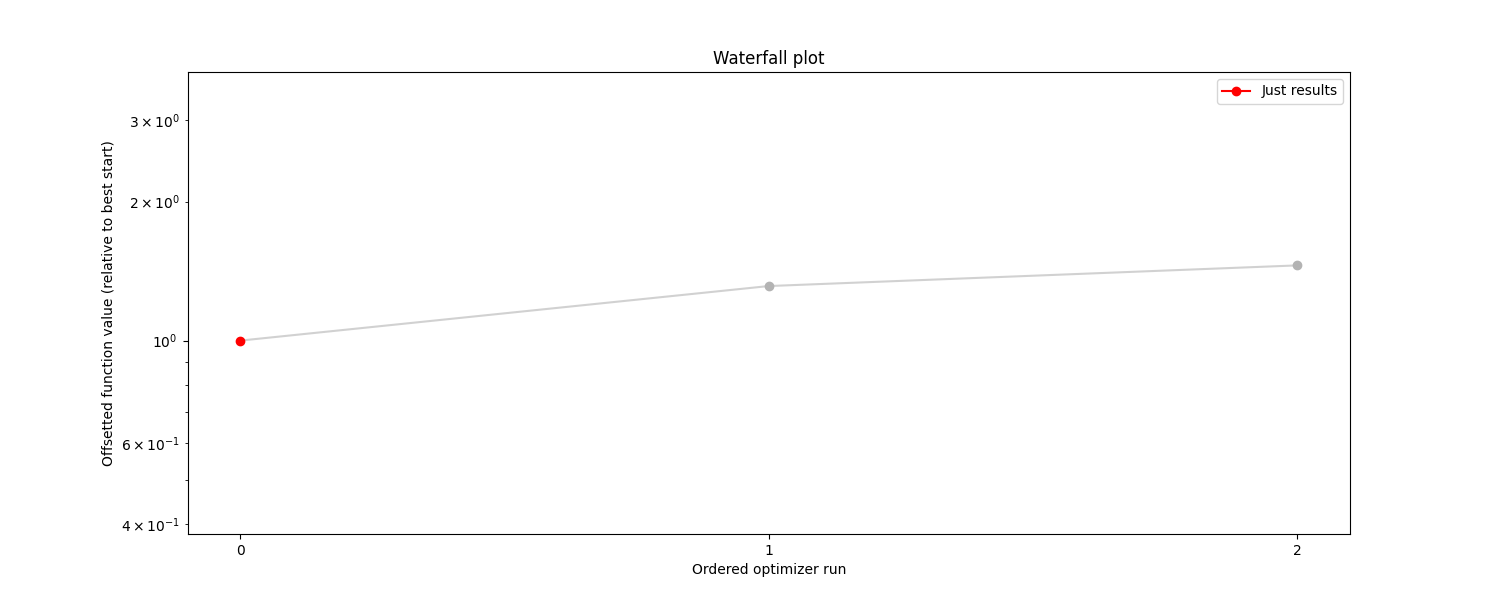
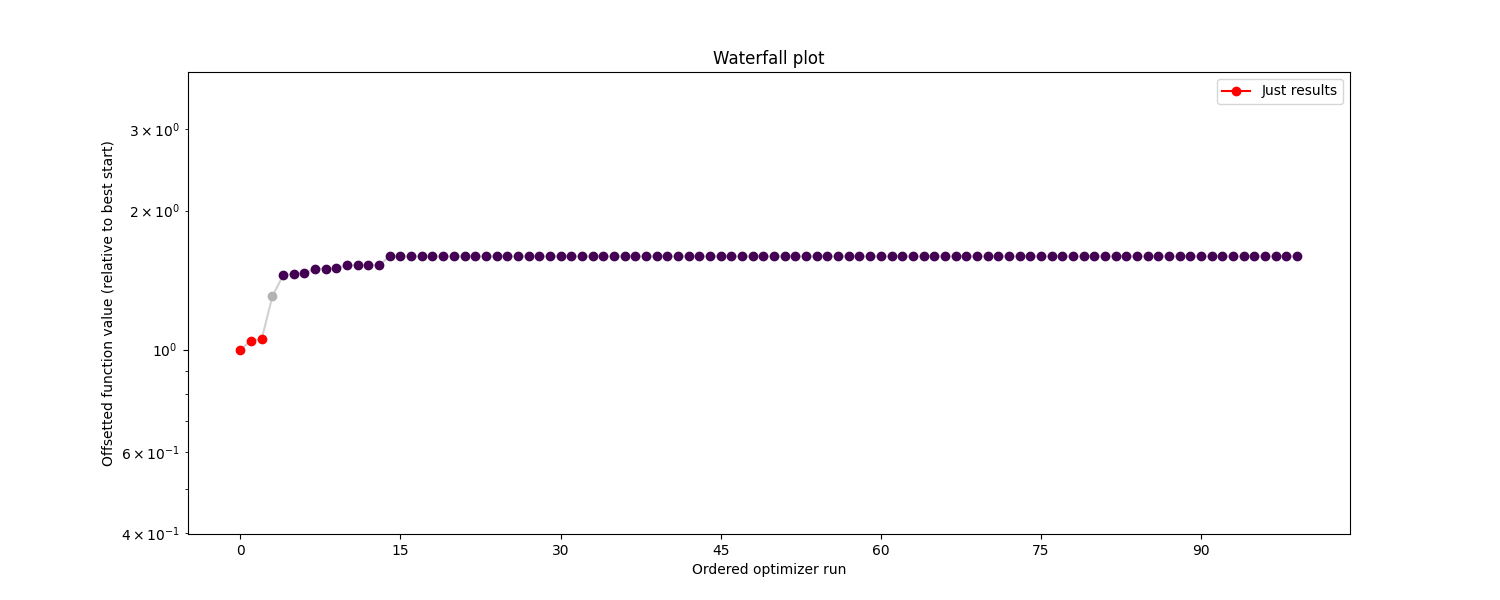
Small changes, Rahman

diff --git a/test/test_hard_constraints.py b/test/test_hard_constraints.py
@@ -71,11 +71,11 @@ def get_optimizer(optimizer_name):
 def main():
     """Napisi opis..."""
 
-    # petab_problem = petab.Problem.from_yaml(
-    # '/home/zebo/Documents/GitHub/examples/Boehm_JProteomeRes2014OptimalScaling/Boehm_JProteomeRes2014OptimalScaling.yaml')
+    #petab_problem = petab.Problem.from_yaml(
+    #'/home/zebo/Documents/GitHub/examples/Boehm_JProteomeRes2014OptimalScaling/Boehm_JProteomeRes2014OptimalScaling.yaml')
     
-    petab_problem = petab.Problem.from_yaml(
-    '/home/zebo/Documents/GitHub/examples/Boehm_JProteomeRes2014OptimalScaling_quantitative/Boehm_JProteomeRes2014OptimalScaling.yaml')
+    #petab_problem = petab.Problem.from_yaml(
+    #'/home/zebo/Documents/GitHub/examples/Boehm_JProteomeRes2014OptimalScaling_quantitative/Boehm_JProteomeRes2014OptimalScaling.yaml')
 
    # petab_problem = petab.Problem.from_yaml(
    # '/home/zebo/Documents/GitHub/examples/Boehm_JProteomeRes2014OptimalScaling_HardConstraints/Boehm_JProteomeRes2014OptimalScaling_HardConstraints.yaml')
@@ -89,11 +89,19 @@ def main():
    # petab_problem = petab.Problem.from_yaml(
    # '/home/zebo/Documents/GitHub/examples/Raf_Mitra_NatCom2018OptimalScaling_3CatQual_hard_constraints/Raf_Mitra_NatCom2018OptimalScaling_3CatQual.yaml')
 
+    petab_problem = petab.Problem.from_yaml(
+    '/home/zebo/Documents/Basis_1_supp/models/Rahman_MBS2016/Rahman_MBS2016.yaml')
+
    # petab.flatten_timepoint_specific_output_overrides(petab_problem) #this is useless for us, don't use it, comment out the error
+
 
     importer = pypesto.petab.PetabImporter(petab_problem)
     optimizer = get_optimizer('L-BFGS-B')
-    results = run_optimization(importer, optimizer, history_name =f'histories/Boehm_histories/' + f'First_try/history_Boehm_' + '_{id}.csv', num_starts=3, min_gap=1e-16)
+    results = run_optimization(importer, 
+                               optimizer, 
+                               history_name =f'histories/Rahman_histories/' + f'test/history_Rahman_' + '_{id}.csv', 
+                               num_starts=100, 
+                               min_gap=1e-16)
 
 
     pypesto.visualize.waterfall([results],
@@ -101,14 +109,14 @@ def main():
                                 scale_y='log10', 
                                 y_limits=2e-17, 
                                 size=(15,6))
-    plt.savefig("plots/waterfall_Boehm.png")
+    plt.savefig("plots/waterfall_Rahman.png")
 
     pypesto.visualize.parameters([results],
-                                 parameter_indices = [0, 1, 2, 3, 4, 5],
+                                 parameter_indices = [0, 1, 2, 3, 4, 5, 6, 7, 8],
                                  size=(15,6), 
-                                 legends=['Monotone categories', 'Hard constraints'],
+                                 legends=['parameters'],
                                  balance_alpha=True)
-    plt.savefig("plots/parameters_Boehm.png")
+    plt.savefig("plots/parameters_Rahman.png")
 
 """
 #running two optimizations to compare waterfall plots

diff --git a/pypesto/hierarchical/optimal_scaling_solver.py b/pypesto/hierarchical/optimal_scaling_solver.py
@@ -154,7 +154,8 @@ class OptimalScalingInnerSolver(InnerSolver):
                 xi = get_xi(gr, problem, x_inner_opt[idx], sim, self.options)
                 sim_all = get_sim_all(problem.get_xs_for_group(gr), sim)
                 sy_all = get_sy_all(problem.get_xs_for_group(gr), sy, par_sim_idx)
-                #print(sim_all)
+                #print("sim_all for group ", gr, ": \n", sim_all)
+                #breakpoint()
                 #print(sy_all)
 
                 problem.groups[gr]['W'] = problem.get_w(gr, sim_all)

diff --git a/pypesto/hierarchical/calculator.py b/pypesto/hierarchical/calculator.py
@@ -78,6 +78,7 @@ class HierarchicalAmiciCalculator(AmiciCalculator):
 
         # fill in boring values
         x_dct = copy.deepcopy(x_dct)
+        #print(x_dct)
         for key, val in self.inner_problem.get_boring_pars(
                 scaled=True).items():
             x_dct[key] = val
